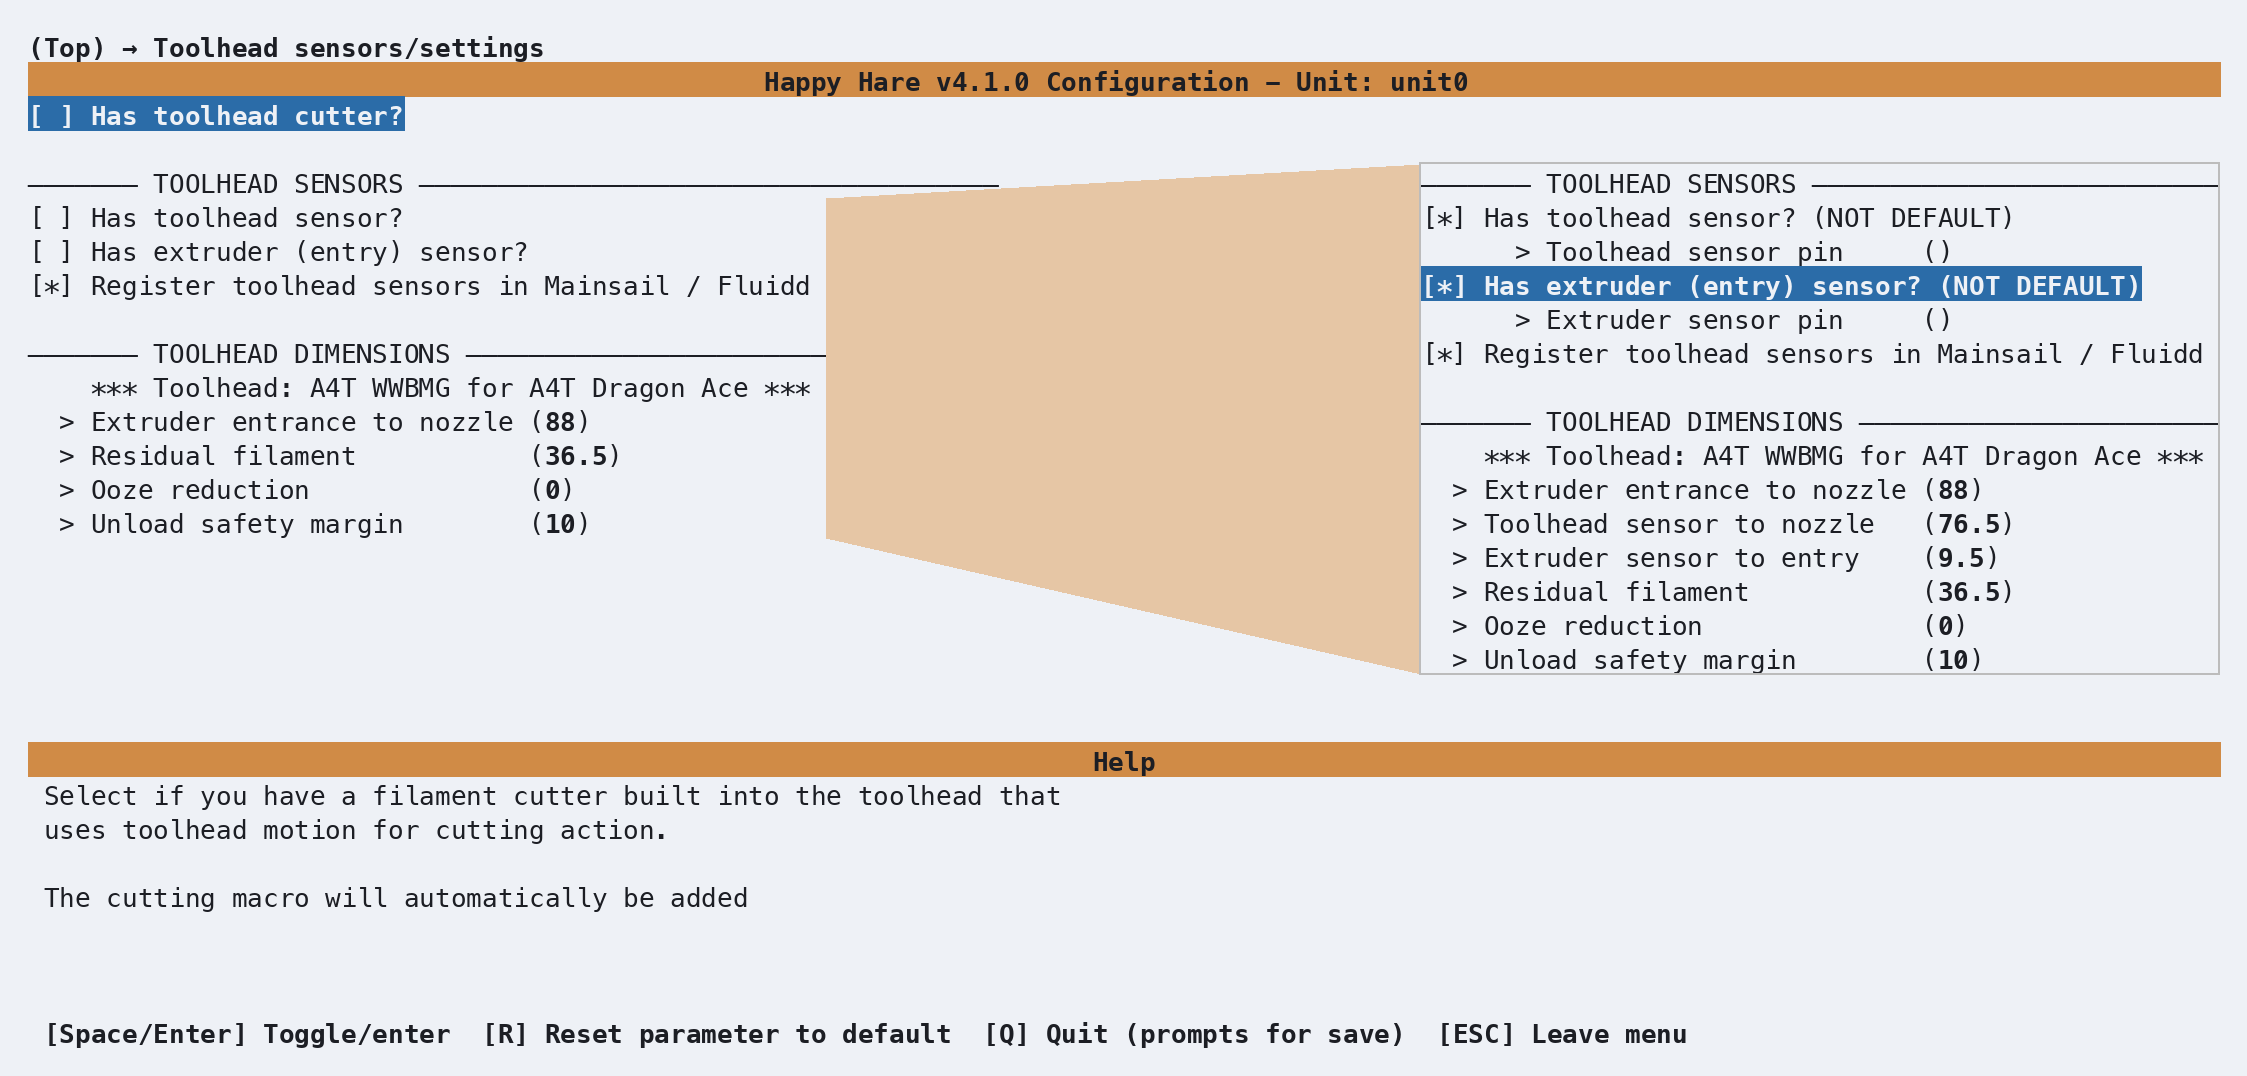
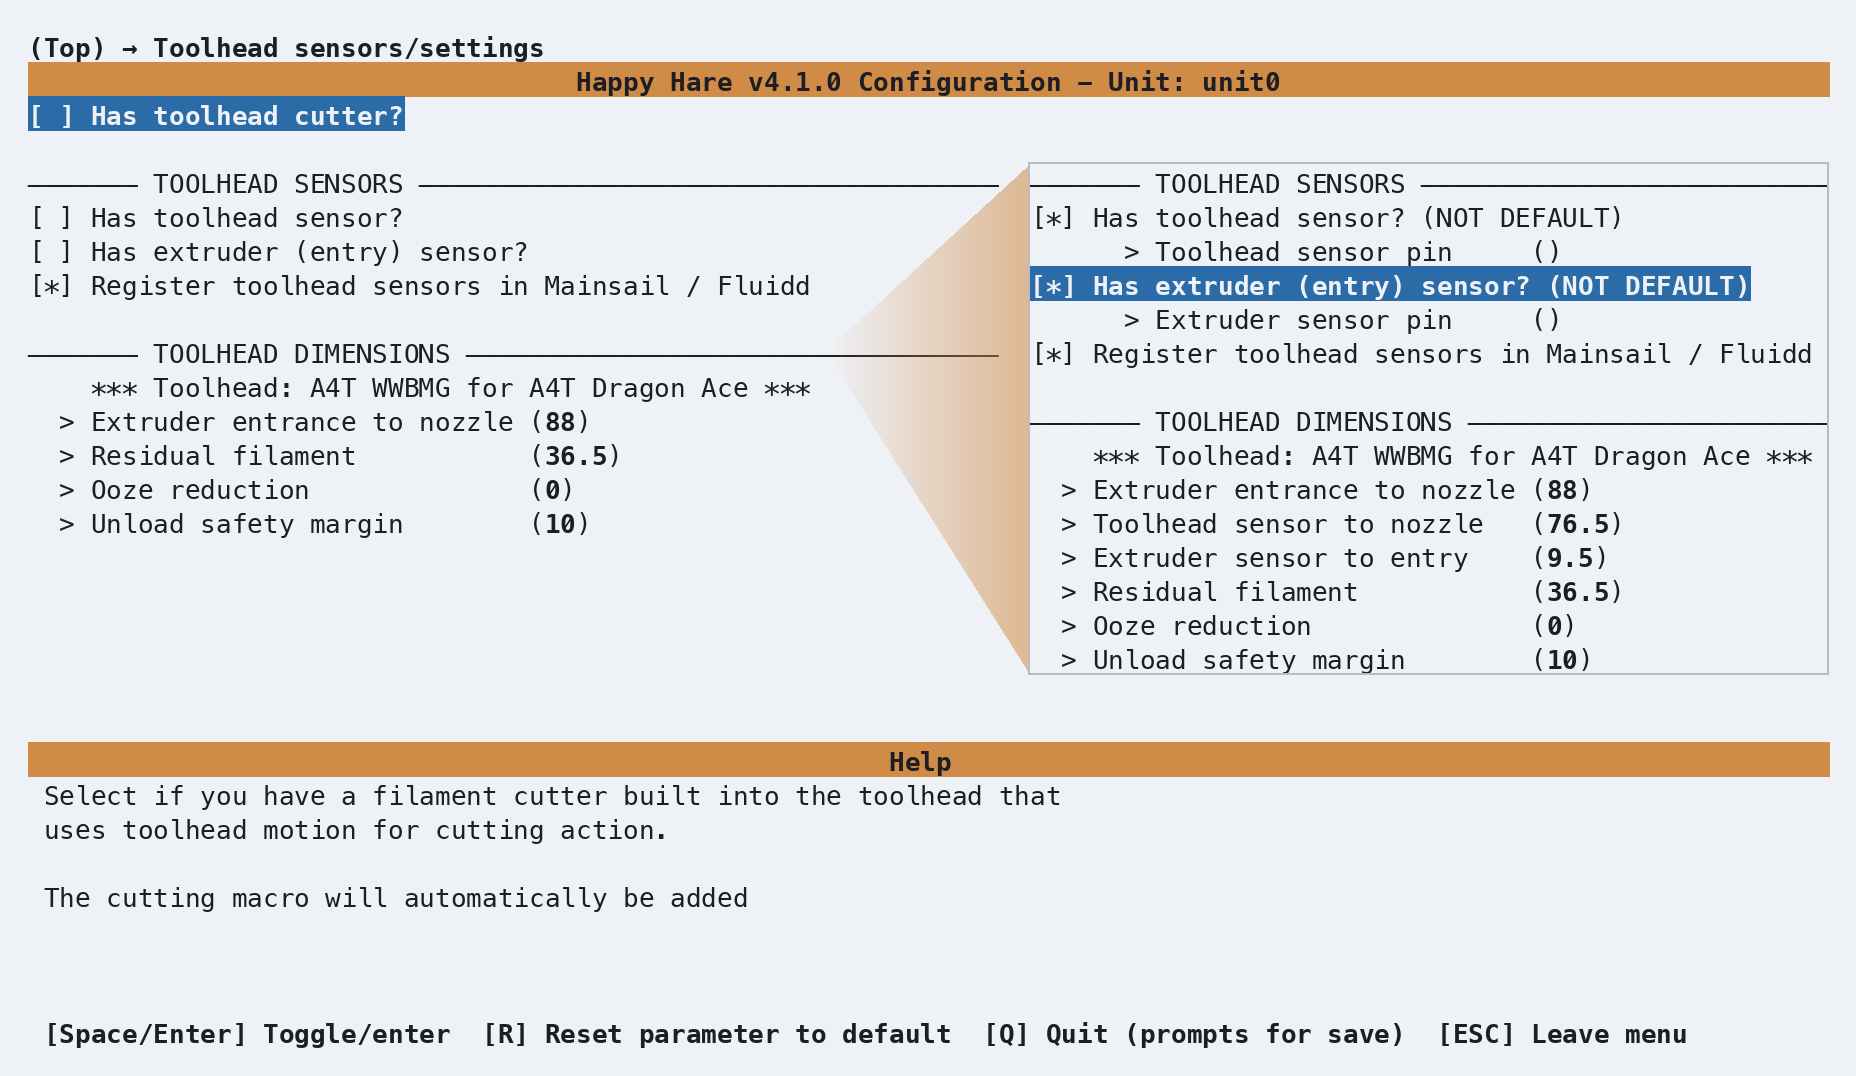
docs: restore faded toolhead inset connector

diff --git a/doc_tools/composite.py b/doc_tools/composite.py
@@ -1,7 +1,7 @@
 """Reproducible toolhead illustrations built entirely from real terminal cells."""
 from io import BytesIO
 
-from PIL import Image, ImageDraw
+from PIL import Image, ImageChops, ImageDraw
 
 from .capture import ScreenError
 from .render import CELL_ASPECT, PAD, _fonts, render
@@ -19,6 +19,20 @@ def sensor_section(screen):
     width = max(len(line.rstrip()) for line in lines[top:bottom]
                 if 'TOOLHEAD SENSORS' not in line and 'TOOLHEAD DIMENSIONS' not in line)
     return top, bottom, width
+
+
+def faded_connector(base, tip, upper, lower):
+    """Fade a triangular alternative-view connector into the original screen."""
+    mask = Image.new('L', base.size, 0)
+    ImageDraw.Draw(mask).polygon([tip, upper, lower], fill=255)
+    gradient = Image.new('L', base.size, 0)
+    draw = ImageDraw.Draw(gradient)
+    start, end = tip[0], upper[0]
+    for x in range(start, end + 1):
+        alpha = round(145 * (x - start) / max(1, end - start))
+        draw.line((x, upper[1], x, lower[1]), fill=alpha)
+    tint = Image.new('RGB', base.size, '#d08b46')
+    base.paste(tint, (0, 0), ImageChops.multiply(mask, gradient))
 
 
 def render_toolhead_composite(before, after, path, scale=2):
@@ -45,12 +59,11 @@ def render_toolhead_composite(before, after, path, scale=2):
                      if line.strip() == 'Help'), before.lines - 8)
     if x < pad + (old_width + 2) * cell_w or y + inset.height >= pad + help_row * cell_h:
         raise ScreenError('Toolhead inset would obscure base text or help; increase capture size')
-    draw = ImageDraw.Draw(base)
     start = pad + int((old_width + 1) * cell_w)
-    draw.polygon([(start, y + cell_h), (x, y),
-                  (x, y + inset.height), (start, pad + old_bottom * cell_h)],
-                 fill='#e6c6a5')
+    faded_connector(base, (start, pad + (old_top + old_bottom) * cell_h // 2),
+                    (x, y), (x, y + inset.height))
     base.paste(inset, (x, y))
+    draw = ImageDraw.Draw(base)
     draw.rectangle((x - scale, y - scale, x + inset.width, y + inset.height),
                    outline='#bcbcbc', width=scale)
     base.save(path)

diff --git a/doc_tools/test_shots.py b/doc_tools/test_shots.py
@@ -104,6 +104,17 @@ class NavigationTests(unittest.TestCase):
 
 
 class CompositeTests(unittest.TestCase):
+    def test_connector_fades_and_stays_inside_triangle(self):
+        from PIL import Image
+        from .composite import faded_connector
+        base = Image.new('RGB', (120, 100), 'white')
+        faded_connector(base, (20, 50), (100, 10), (100, 90))
+        self.assertEqual(base.getpixel((20, 50)), (255, 255, 255))
+        self.assertEqual(base.getpixel((30, 15)), (255, 255, 255))
+        self.assertGreater(base.getpixel((35, 50))[2], base.getpixel((70, 50))[2])
+        self.assertGreater(base.getpixel((70, 50))[2], base.getpixel((100, 50))[2])
+        self.assertGreater(base.getpixel((100, 50))[2], 70)
+
     def screen(self, enabled=False, columns=140):
         import pyte
         screen = pyte.Screen(columns, 30)

diff --git a/doc_tools/shots.py b/doc_tools/shots.py
@@ -1016,14 +1016,14 @@ SESSIONS = [
         'scenes': _ercf_toolhead_composite,
         'outdir': 'GettingStarted-ERCF',
         'seed': 'ercf',
-        'cols': 140,
+        'cols': 115,
     },
     {
         'name': 'getting-started-shared-toolhead-composite',
         'caption': 'A4T toolhead dimensions with an enabled-sensor inset',
         'scenes': _shared_toolhead_composite,
         'outdir': 'GettingStarted-Shared',
-        'cols': 140,
+        'cols': 115,
     },
     {
         'name': 'getting-started-shared-toolhead',

diff --git a/doc_tools/README.md b/doc_tools/README.md
@@ -170,8 +170,10 @@ The `getting-started-shared-toolhead` session captures the plain A4T dimensions.
 The `getting-started-ercf-toolhead-composite` and
 `getting-started-shared-toolhead-composite` sessions preserve the layered
 before/after illustrations used by ERCF, EMU and Tradrack. They capture both
-sensor states at 140 columns, then place the enabled sensor/dimension section
+sensor states at 115 columns, then place the enabled sensor/dimension section
 in a bordered inset over the blank right side of the disabled-sensor screen.
+A triangular connector fades from transparent at its point to amber at the
+inset, preserving the original alternative-view effect.
 `composite.py` finds section boundaries from the actual terminal text and
 rejects a layout that would hide base text or help. It copies rendered cells;
 it does not invent settings or values. Include these composite sessions when
